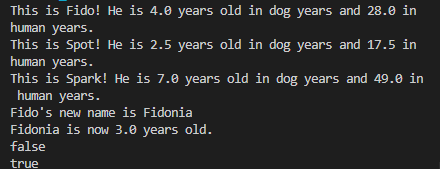
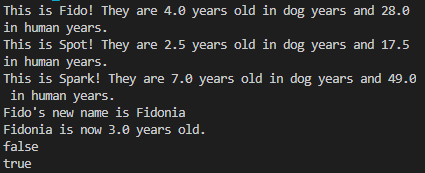
Commit

Changed region(s): [[0.0, 0.1183, 0.9788, 0.503], [0.0, 0.5325, 0.4894, 1.0], [0.0, 0.0, 0.9788, 0.1183]]

diff --git a/Lab09/Dog.java b/Lab09/Dog.java
@@ -78,6 +78,6 @@ public class Dog {
      * Returns a string containing the main information about a dog
      */
     public String toString(){
-        return("This is " + name + "! He is " + age + " years old in dog years and " + getHumanAge() + " in human years.");
+        return("This is " + name + "! They are " + age + " years old in dog years and " + getHumanAge() + " in human years.");
     }
 }
